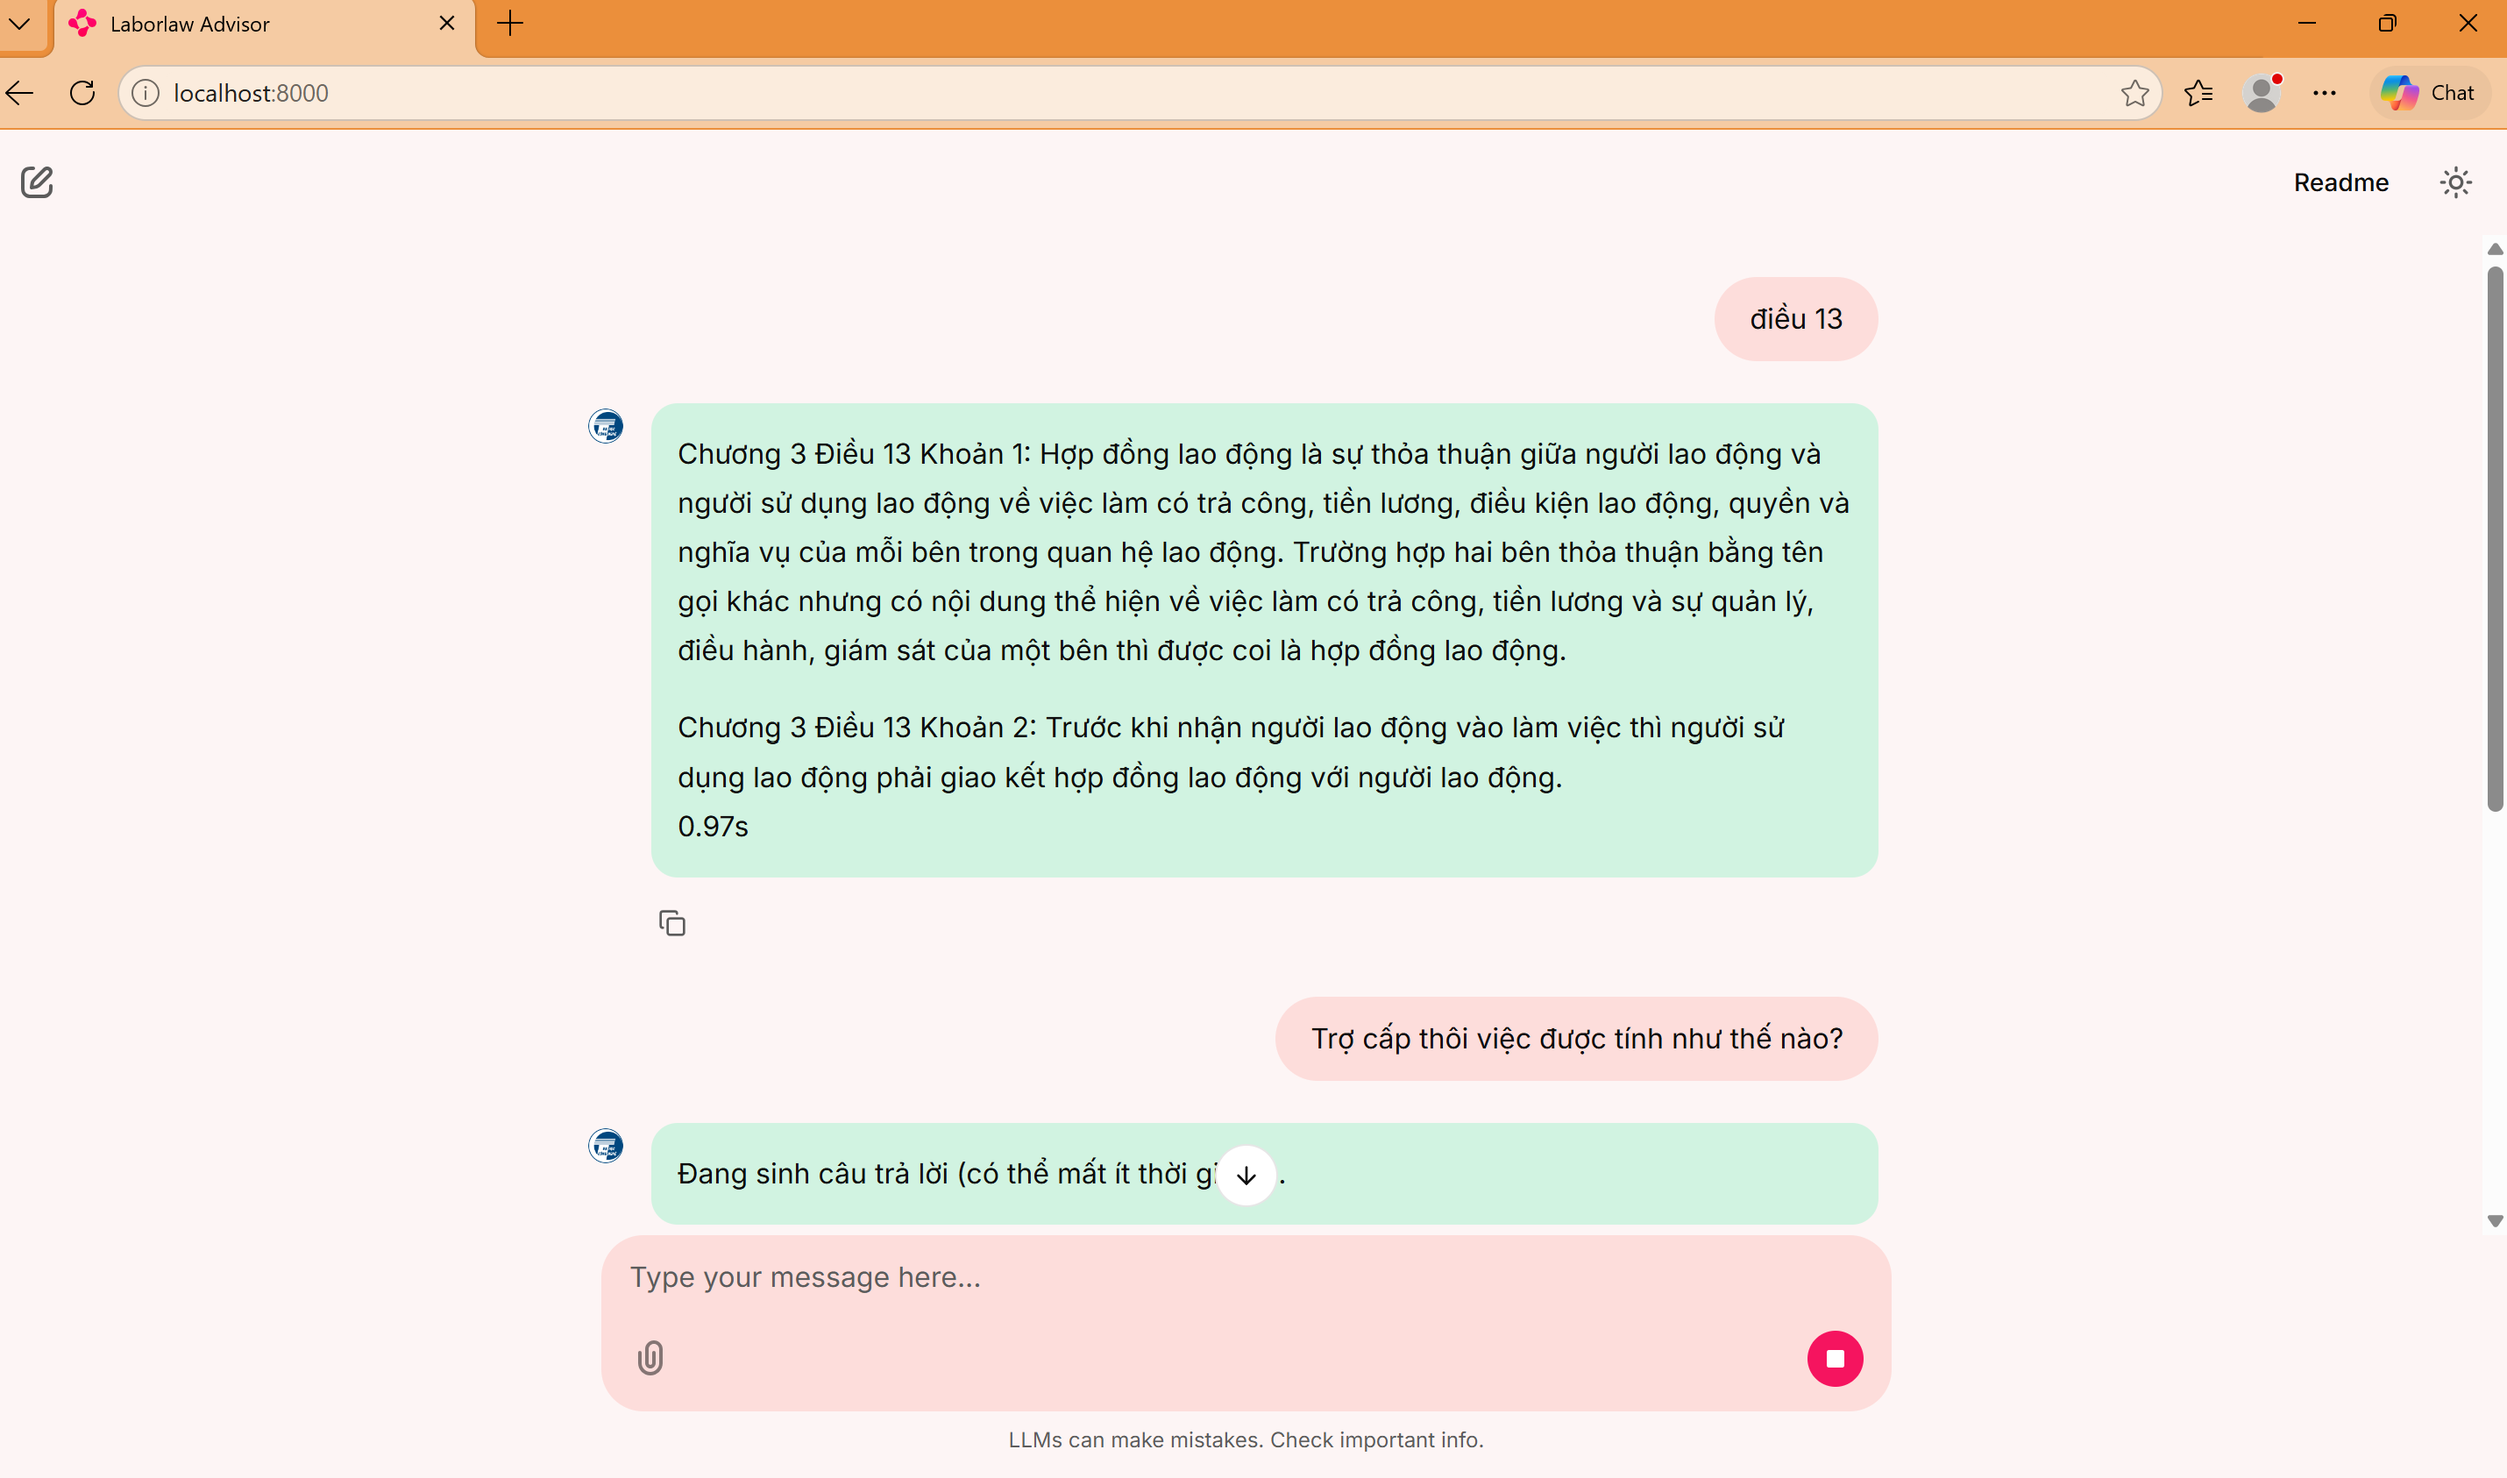
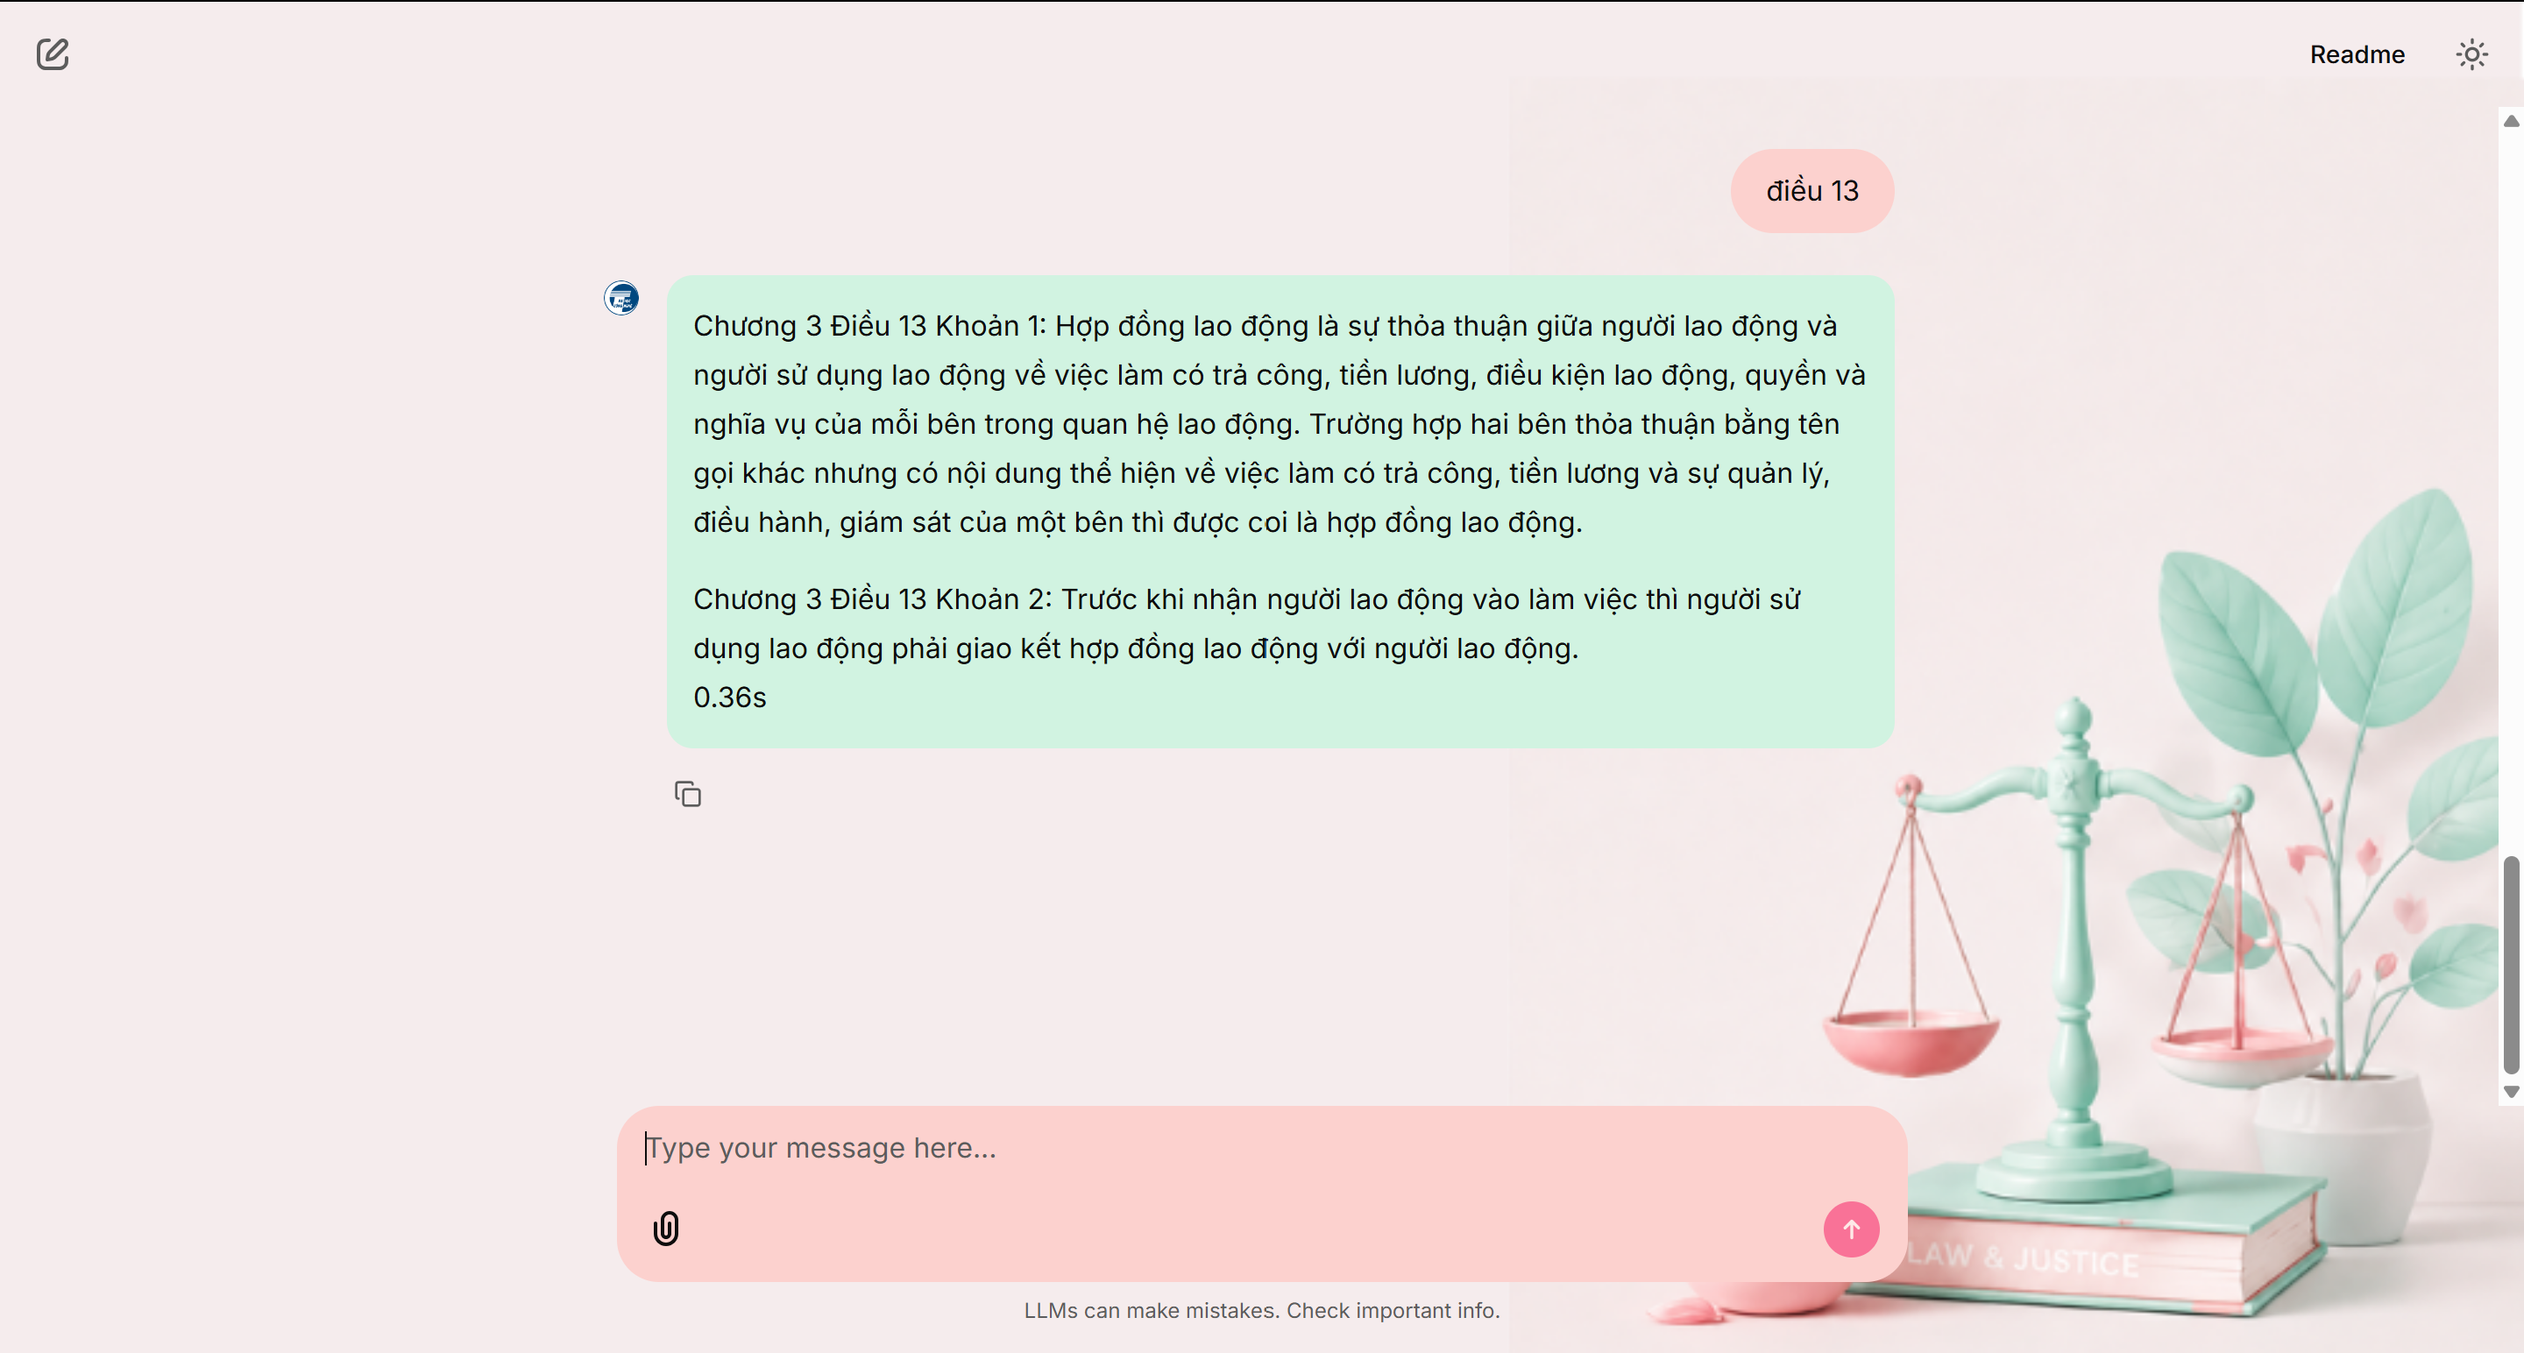
cleanup

Changed region(s): [[0.0, 0.0, 1.0, 0.9948], [0.4045, 0.9637, 0.5913, 0.9948], [0.249, 0.9016, 0.2801, 0.9326]]

diff --git a/src/eval/ragas gemini.py b/src/eval/ragas gemini.py
@@ -15,22 +15,22 @@ from langchain_google_genai import ChatGoogleGenerativeAI, GoogleGenerativeAIEmb
 from tenacity import retry, stop_after_attempt, wait_exponential
 
 GTRUTH_FILE   = "src/eval/QA/gtruth_qa.json"
-RAG_FILE      = "src/eval/QA/rag_qa.json"
+RAG_FILE  = "src/eval/QA/rag_qa.json"
 GRAPHRAG_FILE = "src/eval/QA/graphrag_qa.json"
 LLMONLY_FILE  = "src/eval/QA/qwen_qa.json"
  
-JUDGE_MODEL     = "gemini-2.0-flash"
+JUDGE_MODEL = "gemini-2.0-flash"
 EMBEDDING_MODEL = "models/text-embedding-004"
 import random
-BATCH_SIZE    = 5     # số sample mỗi lần gửi RAGAS
+BATCH_SIZE  = 5     # số sample mỗi lần gửi RAGAS
 SLEEP_BETWEEN_BATCHES  = random.uniform(3, 6)   # giây nghỉ giữa các batch
 SLEEP_BETWEEN_PIPELINES  = 15    # giây nghỉ giữa các pipeline
 SLEEP_ON_QUOTA_ERROR  = 60    # giây nghỉ khi bị quota
  
 CHECKPOINT_FILE  = "src/eval/ragas_checkpoint.json"
-PARTIAL_CSV      = "src/eval/partial_results.csv"
-SUMMARY_JSON     = "src/eval/results_summary.json"
-DETAIL_CSV       = "src/eval/results_detail.csv"
+PARTIAL_CSV  = "src/eval/partial_results.csv"
+SUMMARY_JSON  = "src/eval/results_summary.json"
+DETAIL_CSV  = "src/eval/results_detail.csv"
  
 METRIC_KEYS = ["faithfulness", "answer_relevancy", "context_precision", "context_recall"]
 
@@ -121,18 +121,18 @@ def build_rows(path, pipeline_name):
             contexts = [ctx] if ctx else []
  
         rows.append({
-            "id":            d["id"],
-            "question":      d["question"],
-            "answer":        d["answer"],
-            "contexts":      contexts,
-            "ground_truth":  gtruth_map[d["id"]]["answer"],
+            "id":  d["id"],
+            "question": d["question"],
+            "answer":  d["answer"],
+            "contexts":  contexts,
+            "ground_truth": gtruth_map[d["id"]]["answer"],
             "question_type": d.get("question_type", "unknown"),
         })
     return rows
  
  
 pipelines = {
-    "RAG":      build_rows(RAG_FILE,      "RAG"),
+    "RAG": build_rows(RAG_FILE, "RAG"),
     "GraphRAG": build_rows(GRAPHRAG_FILE, "GraphRAG"),
     "LLM_only": build_rows(LLMONLY_FILE,  "LLM_only"),
 }
@@ -143,9 +143,9 @@ for name, rows in pipelines.items():
 def eval_batch(batch_rows, pipeline_name, batch_index):
     dataset = Dataset.from_list([
         {
-            "question":     r["question"],
-            "answer":       r["answer"],
-            "contexts":     r["contexts"],
+            "question": r["question"],
+            "answer":  r["answer"],
+            "contexts": r["contexts"],
             "ground_truth": r["ground_truth"],
         }
         for r in batch_rows
@@ -210,7 +210,7 @@ for pipeline_name in pipeline_names:
     for start in tqdm(batches, desc=f"{pipeline_name}", unit="batch"):
         batch_rows   = rows[start : start + BATCH_SIZE]
         batch_index  = start // BATCH_SIZE
-        t0           = time.time()
+        t0  = time.time()
  
         result = eval_batch(batch_rows, pipeline_name, batch_index)
  
@@ -222,8 +222,8 @@ for pipeline_name in pipeline_names:
         # Gắn metadata vào dataframe
         df_batch = result.to_pandas()
         df_batch["question_type"] = [r["question_type"] for r in batch_rows]
-        df_batch["id"]            = [r["id"]            for r in batch_rows]
-        df_batch["pipeline"]      = pipeline_name
+        df_batch["id"]    = [r["id"]  for r in batch_rows]
+        df_batch["pipeline"] = pipeline_name
  
         pipeline_dfs.append(df_batch)
         append_to_partial_csv(df_batch)
@@ -231,10 +231,10 @@ for pipeline_name in pipeline_names:
         # Tính ETA
         elapsed = time.time() - t0
         time_per_batch.append(elapsed)
-        avg_time      = sum(time_per_batch) / len(time_per_batch)
+        avg_time  = sum(time_per_batch) / len(time_per_batch)
         remaining_batches = (len(rows) - (start + BATCH_SIZE)) / BATCH_SIZE
-        eta_seconds   = avg_time * remaining_batches
-        processed    += len(batch_rows)
+        eta_seconds = avg_time * remaining_batches
+        processed  += len(batch_rows)
  
         tqdm.write(f"  Batch {batch_index}: {len(batch_rows)} sample | {elapsed:.1f}s | ETA: {format_eta(eta_seconds)}")
  
@@ -285,9 +285,9 @@ for name in col_names:
     print(all_dfs[name].groupby("question_type")[METRIC_KEYS].mean().round(3).to_string())
 
 output = {
-    "judge_model":     JUDGE_MODEL,
+    "judge_model":  JUDGE_MODEL,
     "embedding_model": EMBEDDING_MODEL,
-    "summary":         summary,
+    "summary": summary,
     "breakdown_by_type": {
         name: all_dfs[name].groupby("question_type")[METRIC_KEYS].mean().round(4).to_dict()
         for name in col_names

diff --git a/src/eval/QA/llm_QA.py b/src/eval/QA/llm_QA.py
@@ -88,7 +88,7 @@ def call_gemini(client, question):
     for attempt in range(1, MAX_RETRIES + 1):
         try:
             t0 = time.perf_counter()
-            response = client.models.generate_content(model=MODEL_NAME,contents=prompt,)
+            response = client.models.generate_content(model=MODEL_NAME,contents=prompt)
             elapsed = round(time.perf_counter() - t0, 4)
             answer = response.text.strip() if response.text else ""
             return prompt, answer, elapsed
@@ -103,7 +103,7 @@ def call_gemini(client, question):
  
     raise last_exc
 
-def run_eval_gemini():
+def generate_answers_with_gemini():
     client = genai.Client(api_key=API_KEY)
 
     if START_ID is not None:
@@ -115,12 +115,12 @@ def run_eval_gemini():
 
 
     qa_dataset = load_json(QA_INPUT)
-    results    = load_or_init_output(qa_dataset)
-    total      = len(qa_dataset)
+    results = load_or_init_output(qa_dataset)
+    total  = len(qa_dataset)
     print(f"Tổng số câu: {total}, bắt đầu từ: {start}\n")
  
     for idx in range(start, total):
-        item     = results[idx]
+        item = results[idx]
         question = item["question"]
         print(f"Câu {idx + 1}/{total}: {question[:80]}...")
  
@@ -129,7 +129,7 @@ def run_eval_gemini():
 
             item["gemini_context"] = context_text
             item["gemini_answer"]  = answer
-            item["gemini_time"]    = elapsed
+            item["gemini_time"] = elapsed
  
             # Lưu sau mỗi câu
             save_json(results, GEMINI_QA_OUTPUT)
@@ -142,7 +142,7 @@ def run_eval_gemini():
             if is_quota_error(e):
                 print(f"\nHết quota tại câu {idx + 1} (index {idx}).")
                 print(f"Đổi API_KEY mới, để START_ID = {idx}\n")
-                # Checkpoint đã lưu idx (câu hiện tại chưa xong) → resume đúng chỗ
+                # Checkpoint đã lưu idx (câu hiện tại chưa xong)
                 save_checkpoint(idx)
                 break
             elif is_config_error(e):
@@ -150,11 +150,11 @@ def run_eval_gemini():
                 save_checkpoint(idx)
                 break
             else:
-                # Lỗi khác → ghi rỗng và đi tiếp, không dừng cả pipeline
+                # Lỗi khác 
                 print(f"bỏ qua câu {idx + 1}: {e}")
                 item["gemini_context"] = ""
                 item["gemini_answer"]  = f"[ERROR] {e}"
-                item["gemini_time"]    = 0
+                item["gemini_time"] = 0
                 save_json(results, GEMINI_QA_OUTPUT)
                 save_checkpoint(idx + 1)
  
@@ -163,10 +163,10 @@ def run_eval_gemini():
     else:
         # Chạy hết vòng lặp (không bị break bởi quota)
         print(f"\ndone, kết quả: {GEMINI_QA_OUTPUT}")
-        # Xóa checkpoint vì đã xong
+        # Xóa checkpoint khi done
         if os.path.exists(CHECKPOINT_FILE):
             os.remove(CHECKPOINT_FILE)
             print("Đã xóa checkpoint.")
 
-run_eval_gemini()
+generate_answers_with_gemini()
 

diff --git a/src/ner_re/split_enum_entity.py b/src/ner_re/split_enum_entity.py
@@ -85,32 +85,6 @@ def expand_legal_refs(text,node_id=None):
     return results 
 
 
-def build_full_reference(current, template):
-    """
-    Xây dựng tham chiếu đầy đủ bằng cách merge current với template
-    """
-    # Sử dụng giá trị từ current, fallback về template
-    merged = {
-        'diem': current.get('diem', template.get('diem')),
-        'khoan': current.get('khoan', template.get('khoan')),
-        'dieu': current.get('dieu', template.get('dieu'))
-    }
-    
-    # Xây dựng chuỗi theo thứ tự: điểm -> khoản -> điều
-    parts = []
-    
-    if merged.get('diem'):
-        parts.append(f"điểm {merged['diem']}")
-    
-    if merged.get('khoan'):
-        parts.append(f"khoản {merged['khoan']}")
-    
-    if merged.get('dieu'):
-        parts.append(f"điều {merged['dieu']}")
-    
-    return " ".join(parts) if parts else ""
-
-
 
 def split_non_legal_entity(text):
     # Split text theo 

diff --git a/src/ner_re/rel_extraction.py b/src/ner_re/rel_extraction.py
@@ -385,28 +385,6 @@ def extract_edges(data):
 # phân loại action text to edges
 def run_re(property_entities, structural_nodes):
 
-    groups = {}
-    # group theo article
-    for node in property_entities:
-
-        node_id = node["node_id"]
-        if node_id not in groups:
-            groups[node_id] = []
-        
-        article_id = get_article_id(node_id)
-
-        # nếu chưa có key thì tạo list rỗng
-        if article_id not in groups:
-            groups[article_id] = []
-
-        # add entities
-        for ent in node["entities"]:
-
-            groups[article_id].append({
-                "type": ent["type"],
-                "value": ent["text"],
-                "node_id": node_id
-            })
     mention_edges = build_mention_edges(property_entities)
     map_ent_to_sentences, all_entities = map_entities_to_sentences(structural_nodes, property_entities)
     from src.utils.file_utils import save_json

diff --git a/src/labor_law/extractor.py b/src/labor_law/extractor.py
@@ -25,9 +25,9 @@ def extract_blocks(processed_lines, regex, keyword):
 
        
         for char in line:
-            if char in ('"', '\u201c', '\u00ab'):
+            if char in ('\u201c', '\u00ab'): #  “ «
                 quote_count += 1
-            elif char in ('"', '\u201d', '\u00bb'):
+            elif char in ('\u201d', '\u00bb'): #  ” »
                 quote_count = max(0, quote_count - 1)
 
 

diff --git a/app.py b/app.py
@@ -21,7 +21,8 @@ for entity_type, pattern_list in PATTERNS.items():
 @cl.on_chat_start
 async def on_chat_start():
     global driver
-    driver = init_driver()
+    if driver is None:
+        driver = init_driver()
     # load_qwen()
     # await cl.Message(content="Xin chào! Hãy đặt câu hỏi về Luật Lao động.").send()
 

diff --git a/src/models/qwen.py b/src/models/qwen.py
@@ -13,7 +13,7 @@ import torch
 
 MODEL_NAME = "Qwen/Qwen2.5-1.5B-Instruct"
 GEN_CONFIG = {
-    "max_new_tokens": 512, # 1000 180
+    "max_new_tokens": 1000, # 512, # 1000 180
     "temperature": 0.1, # 0.3
     "do_sample": True, #True
     "top_p": 0.85,

diff --git a/README.md b/README.md
@@ -46,7 +46,7 @@ Mở file `.env` và điền các giá trị trong `.env.example`.
 ```bash
 
 # Windows
-.venv\Scripts\activate
+law-venv\Scripts\activate
 ```
 
 **2. Khởi động Neo4j bằng Docker**
@@ -86,3 +86,4 @@ Câu hỏi cấu trúc pháp lý
 
 Câu hỏi ngữ nghĩa pháp lý
 ![Demo câu hỏi ngữ nghĩa pháp lý và trả lời](demo1.png)
+![Demo câu hỏi ngữ nghĩa pháp lý và trả lời](demo2.png)
